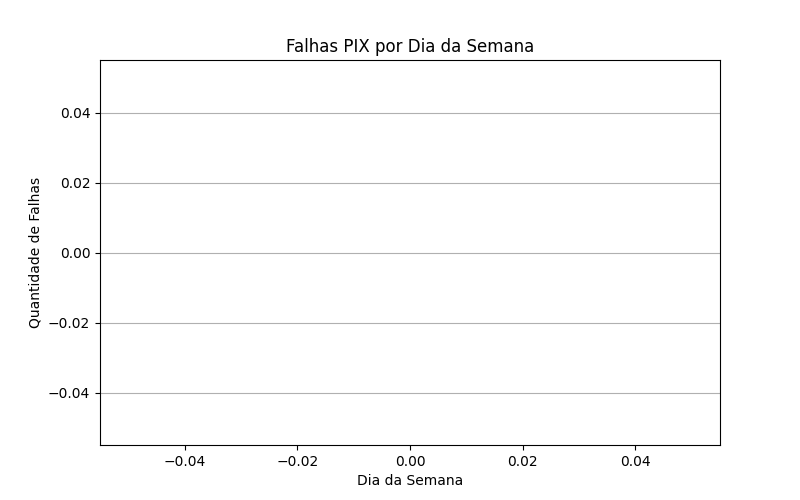
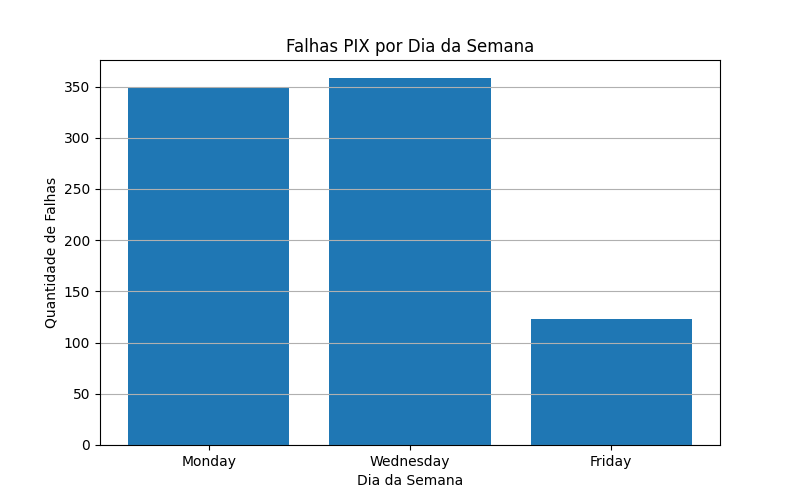
atualizacao e checagem de script

diff --git a/README.md b/README.md
@@ -23,19 +23,19 @@ O repositório está organizado de forma a garantir a rastreabilidade, manutenib
 willbank-analytics-case/
 │
 ├── data/
-│   ├── raw/                        # Dados fornecidos (core_account, core_pix, customer)
+│   ├── raw/                          # Dados originais fornecidos (core_account, core_pix, customer)
 │   │   ├── core_account.csv
 │   │   ├── core_pix.csv
 │   │   └── customer.csv
-│   ├── bronze/                     # Dados com tipos ajustados e padronização
+│   ├── bronze/                       # Dados tratados e padronizados
 │   │   ├── bronze_core_account.csv
 │   │   ├── bronze_core_pix.csv
 │   │   └── bronze_customer.csv
-│   ├── silver/                     # Dados enriquecidos, cruzamentos e análises
+│   ├── silver/                       # Dados enriquecidos, cruzamentos e análises intermediárias
 │   │   ├── silver_pix_transacoes.csv
 │   │   ├── silver_pix_falhou_registro.csv
 │   │   └── silver_inconsistencias.csv
-│   └── gold/                       # Dados agregados e métricas finais
+│   └── gold/                         # Dados agregados e KPIs finais
 │       ├── gold_clientes_por_uf.csv
 │       ├── gold_estatisticas_idade.csv
 │       ├── gold_falhas_por_uf.csv
@@ -46,23 +46,30 @@ willbank-analytics-case/
 │       ├── gold_transacoes_suspeitas_resumo.txt
 │       └── gold_valor_medio_pix_mensal.csv
 │
-├── scripts/                             # Transformações por camada
-│   ├── bronze_transform.py              # Geração dos arquivos Bronze (tipos, ingestão)
-│   ├── silver_transform.py              # Join completo entre PIX, account e customer
-│   ├── silver_inconsistencias.py        # PIX que não existem em core_account
-│   ├── silver_pix_falhou_registro.py    # Transações em core_account que não estão no core_pix
-│   ├── gold_kpis.py                     # Geração dos KPIs principais
-│   ├── gold_kpis_demografia.py          # Distribuição por idade e por estado
-│   └── gold_kpis_estrategicos.py        # Taxa de sucesso, suspeitas e valor médio
+├── deliverables/                    # Resultados finais e artefatos para apresentação
+│   ├── dashboard/                   # Imagens e links de dashboards (ex: Looker)
+│   │   └── link_para_o_dashboard_online.md
+│   ├── docs/                       # Documentos auxiliares e suporte
+│   └── output/                     # Gráficos, relatórios e imagens exportadas
+│       ├── falhas_por_dia.png
+│       └── falhas_por_hora.png
 │
-├── deliverables/                        # Saídas finais (dashboards, gráficos, relatórios)
-│   ├── dashboard/                       # Imagens e simulações de dashboards
-│   │   └── link_para_o_dashboard_online.md  # link para visualizar os dados online no looker
-│   ├── docs/                            # Documentos de apoio
-│   └── output/                          # Exportações para apresentação
+├── scripts/                        # Scripts organizados por camada do pipeline
+│   ├── bronze_transform.py         # Tratamento inicial e padronização (Bronze)
+│   ├── silver_transform.py         # Enriquecimento e união de dados (Silver)
+│   ├── silver_inconsistencias.py  # Detecção de inconsistências na camada Silver
+│   ├── silver_pix_falhou_registro.py # Identificação de falhas em registros PIX (Silver)
+│   ├── gold_kpis.py                # Geração dos principais KPIs (Gold)
+│   ├── gold_kpis_demografia.py    # KPIs demográficos (idade, UF) (Gold)
+│   ├── gold_kpis_estrategicos.py  # KPIs estratégicos (falhas, suspeitas) (Gold)
+│   ├── gold_falhas_temporais.py   # Análise temporal de falhas (Gold)
+│   ├── teste_falhas.py             # Scripts auxiliares para testes
+│   └── teste_status_uf.py          # Script auxiliar para validar status e UF
 │
-├── requirements.txt                    # Dependências do projeto
-└── README.md
+├── requirements.txt               # Dependências Python do projeto
+├── README.md                     # Documentação principal do projeto
+└── .gitignore                    # Configurações para Git
+
 ````
 
 -----
